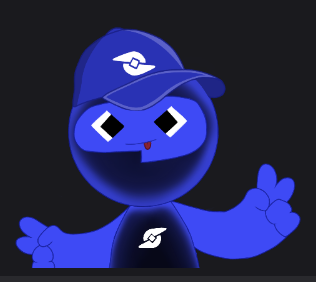
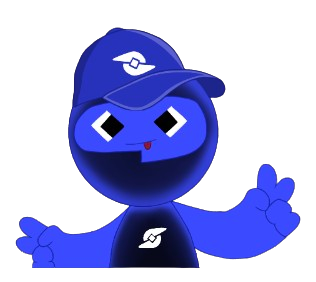
Use transparent crab asset and brighten race track

diff --git a/styles.css b/styles.css
@@ -94,7 +94,7 @@ h1 em { color: var(--coral); font-style: normal; }
 .microcopy { margin-top: 18px; color: var(--muted-2); font: 11px "DM Mono", monospace; }
 .microcopy strong { color: var(--aqua); font-weight: 500; }
 
-.track-preview { position: relative; min-height: 550px; padding: 28px; border: 1px solid rgba(123, 156, 255, .28); border-radius: 30px; background: radial-gradient(circle at 76% 18%, rgba(123, 156, 255, .13), transparent 22rem), linear-gradient(145deg, rgba(15, 47, 82, .98), rgba(5, 22, 46, .98)); box-shadow: 0 30px 90px rgba(0, 0, 0, .3), inset 0 1px 0 rgba(255, 255, 255, .06); overflow: hidden; }
+.track-preview { position: relative; min-height: 550px; padding: 28px; border: 1px solid rgba(123, 156, 255, .38); border-radius: 30px; background: radial-gradient(circle at 76% 18%, rgba(123, 156, 255, .22), transparent 22rem), linear-gradient(145deg, rgba(27, 70, 112, .98), rgba(8, 36, 70, .98)); box-shadow: 0 30px 90px rgba(0, 0, 0, .25), inset 0 1px 0 rgba(255, 255, 255, .09); overflow: hidden; }
 .track-preview::before { content: ""; position: absolute; inset: 0; opacity: .44; background: linear-gradient(115deg, transparent 0 36%, rgba(123, 156, 255, .08) 36.2%, transparent 36.5%), linear-gradient(90deg, transparent 0 68%, rgba(101, 224, 209, .08) 68.2%, transparent 68.5%); pointer-events: none; }
 .preview-orbit { position: absolute; right: -150px; top: -185px; width: 470px; height: 470px; border: 1px solid rgba(101, 224, 209, .2); border-radius: 50%; box-shadow: 0 0 0 44px rgba(101, 224, 209, .025), 0 0 0 88px rgba(101, 224, 209, .02); pointer-events: none; }
 .preview-top { display: flex; align-items: end; justify-content: space-between; position: relative; z-index: 1; gap: 16px; }
@@ -109,13 +109,13 @@ h1 em { color: var(--coral); font-style: normal; }
 .mini-name { display: flex; align-items: center; gap: 6px; min-width: 0; color: var(--muted); font: 10px "DM Mono", monospace; text-transform: uppercase; }
 .mini-name strong { overflow: hidden; color: var(--ink); font: 600 11px "Space Grotesk", sans-serif; text-overflow: ellipsis; white-space: nowrap; }
 .mini-rank { color: var(--lane-color); font-weight: 600; }
-.mini-line { position: relative; height: 42px; border: 1px solid color-mix(in srgb, var(--lane-color) 32%, rgba(143, 179, 221, .16)); border-radius: 12px; background: repeating-linear-gradient(135deg, rgba(255,255,255,.035) 0 10px, transparent 10px 20px), rgba(3, 16, 33, .72); box-shadow: inset 0 0 18px rgba(0, 0, 0, .18), 0 7px 18px rgba(0, 0, 0, .1); overflow: hidden; }
+.mini-line { position: relative; height: 42px; border: 1px solid color-mix(in srgb, var(--lane-color) 40%, rgba(180, 215, 255, .22)); border-radius: 12px; background: repeating-linear-gradient(135deg, rgba(255,255,255,.065) 0 10px, transparent 10px 20px), rgba(12, 43, 75, .82); box-shadow: inset 0 0 18px rgba(0, 0, 0, .13), 0 7px 18px rgba(0, 0, 0, .1); overflow: hidden; }
 .mini-line::before { content: ""; position: absolute; inset: 0 0 0 0; border-left: 2px solid var(--lane-color); opacity: .32; }
 .mini-line::after { content: ""; position: absolute; right: 13px; top: 5px; bottom: 5px; width: 6px; border-left: 2px solid rgba(255,255,255,.7); border-right: 2px solid rgba(255,255,255,.7); background: repeating-linear-gradient(180deg, rgba(255,255,255,.7) 0 4px, transparent 4px 8px); opacity: .42; }
 .track-start, .track-finish { position: absolute; top: 50%; z-index: 1; color: var(--muted-2); font: 8px "DM Mono", monospace; letter-spacing: .08em; transform: translateY(-50%); }
 .track-start { left: 9px; opacity: .66; }
 .track-finish { right: 25px; opacity: .66; }
-.mini-crab { position: absolute; left: var(--pos); top: 1px; z-index: 2; width: 49px; height: 39px; padding: 2px; border: 1px solid color-mix(in srgb, var(--lane-color) 68%, transparent); border-radius: 10px; background: rgba(8, 22, 43, .78); box-shadow: 0 0 20px color-mix(in srgb, var(--lane-color) 28%, transparent); transition: left 1s ease; transform: translateX(-50%); animation: preview-bob 1.7s ease-in-out infinite alternate; }
+.mini-crab { position: absolute; left: var(--pos); top: 1px; z-index: 2; width: 49px; height: 39px; padding: 0; border: 0; border-radius: 10px; background: transparent; filter: drop-shadow(0 6px 7px color-mix(in srgb, var(--lane-color) 42%, rgba(0, 0, 0, .3))); transition: left 1s ease; transform: translateX(-50%); animation: preview-bob 1.7s ease-in-out infinite alternate; }
 .mini-crab img, .crab-emoji img, .race-crab img, .result-mini-crab img, .winner-emoji img { display: block; width: 100%; height: 100%; object-fit: contain; }
 .mini-number { min-width: 28px; padding: 5px 4px; border: 1px solid rgba(143, 179, 221, .14); border-radius: 7px; color: var(--muted); background: rgba(4, 17, 36, .42); font: 600 10px "DM Mono", monospace; text-align: center; }
 .preview-stats { position: absolute; right: 28px; bottom: 87px; left: 28px; display: flex; justify-content: space-between; gap: 12px; padding-top: 13px; border-top: 1px solid rgba(143, 179, 221, .12); color: var(--muted); font: 10px "DM Mono", monospace; letter-spacing: .04em; }
@@ -179,7 +179,7 @@ h1 em { color: var(--coral); font-style: normal; }
 .race-header h1 { font-size: clamp(31px, 5vw, 52px); }
 .race-status { display: flex; align-items: center; gap: 10px; color: var(--muted); font: 11px "DM Mono", monospace; }
 .race-status b { color: var(--aqua); font-weight: 500; }
-.race-panel { position: relative; overflow: hidden; padding: 18px 18px 20px; border: 1px solid var(--line); border-radius: 20px; background: linear-gradient(150deg, rgba(15, 45, 78, .9), rgba(5, 21, 42, .94)); box-shadow: var(--shadow); }
+.race-panel { position: relative; overflow: hidden; padding: 18px 18px 20px; border: 1px solid rgba(123, 156, 255, .3); border-radius: 20px; background: radial-gradient(circle at 88% 0%, rgba(101, 224, 209, .12), transparent 24rem), linear-gradient(150deg, rgba(29, 72, 112, .96), rgba(8, 35, 66, .98)); box-shadow: var(--shadow); }
 .start-line, .finish-line { position: absolute; top: 70px; bottom: 30px; width: 2px; z-index: 4; border-left: 2px dashed rgba(255,255,255,.25); }
 .start-line { left: 100px; }
 .finish-line { right: 49px; border-color: var(--coral); box-shadow: 0 0 16px rgba(255, 110, 93, .48); }
@@ -190,9 +190,9 @@ h1 em { color: var(--coral); font-style: normal; }
 .lane-meta strong { display: block; overflow: hidden; font-size: 12px; text-overflow: ellipsis; white-space: nowrap; }
 .lane-meta > span:not(.lane-number) { display: block; margin-top: 4px; overflow: hidden; color: var(--muted); font: 10px "DM Mono", monospace; text-overflow: ellipsis; white-space: nowrap; }
 .lane-number { display: block; margin-bottom: 1px; font: 9px "DM Mono", monospace; letter-spacing: .06em; }
-.lane-road { position: relative; height: 56px; border: 1px solid rgba(143, 179, 221, .13); border-radius: 11px; background: repeating-linear-gradient(135deg, rgba(255,255,255,.027) 0 9px, transparent 9px 18px), rgba(3, 16, 33, .63); overflow: hidden; }
-.lane-road::before { content: ""; position: absolute; inset: 50% 0 auto; height: 1px; background: rgba(255,255,255,.06); }
-.lane-road::after { content: ""; position: absolute; inset: 0; background: linear-gradient(90deg, rgba(7, 22, 42, .6), transparent 20%, transparent 82%, rgba(255, 110, 93, .05)); pointer-events: none; }
+.lane-road { position: relative; height: 56px; border: 1px solid rgba(171, 211, 255, .25); border-radius: 11px; background: repeating-linear-gradient(135deg, rgba(255,255,255,.065) 0 9px, transparent 9px 18px), rgba(12, 43, 75, .82); box-shadow: inset 0 0 20px rgba(0, 0, 0, .12); overflow: hidden; }
+.lane-road::before { content: ""; position: absolute; inset: 50% 0 auto; height: 1px; background: rgba(255,255,255,.12); }
+.lane-road::after { content: ""; position: absolute; inset: 0; background: linear-gradient(90deg, rgba(11, 39, 70, .28), transparent 20%, transparent 82%, rgba(255, 140, 180, .1)); pointer-events: none; }
 .race-crab { position: absolute; top: 4px; left: 0; z-index: 2; width: 63px; height: 49px; line-height: 1; filter: drop-shadow(0 6px 6px rgba(0,0,0,.32)); transform: translateX(-50%); transition: left .12s linear; }
 .lane-event { position: absolute; top: 3px; left: 50%; z-index: 3; padding: 4px 7px; border-radius: 5px; color: #172238; background: var(--yellow); font: 10px "DM Mono", monospace; opacity: 0; transform: translate(-50%, -6px); transition: opacity .2s ease, transform .2s ease; }
 .lane-event.visible { opacity: 1; transform: translate(-50%, 0); }
